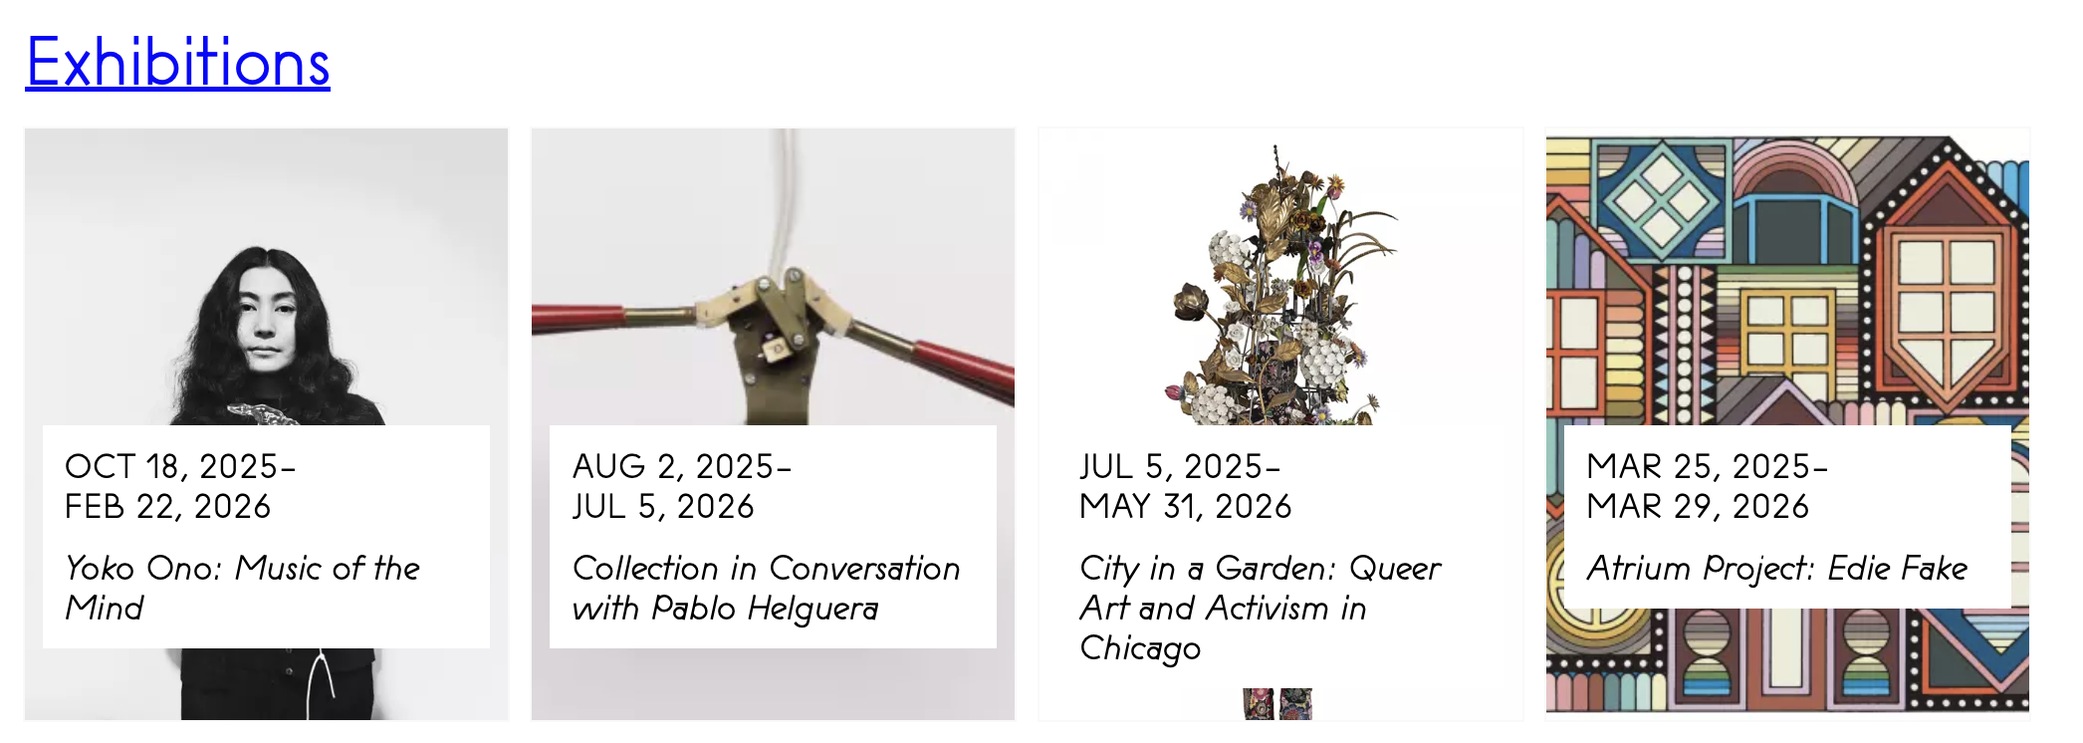
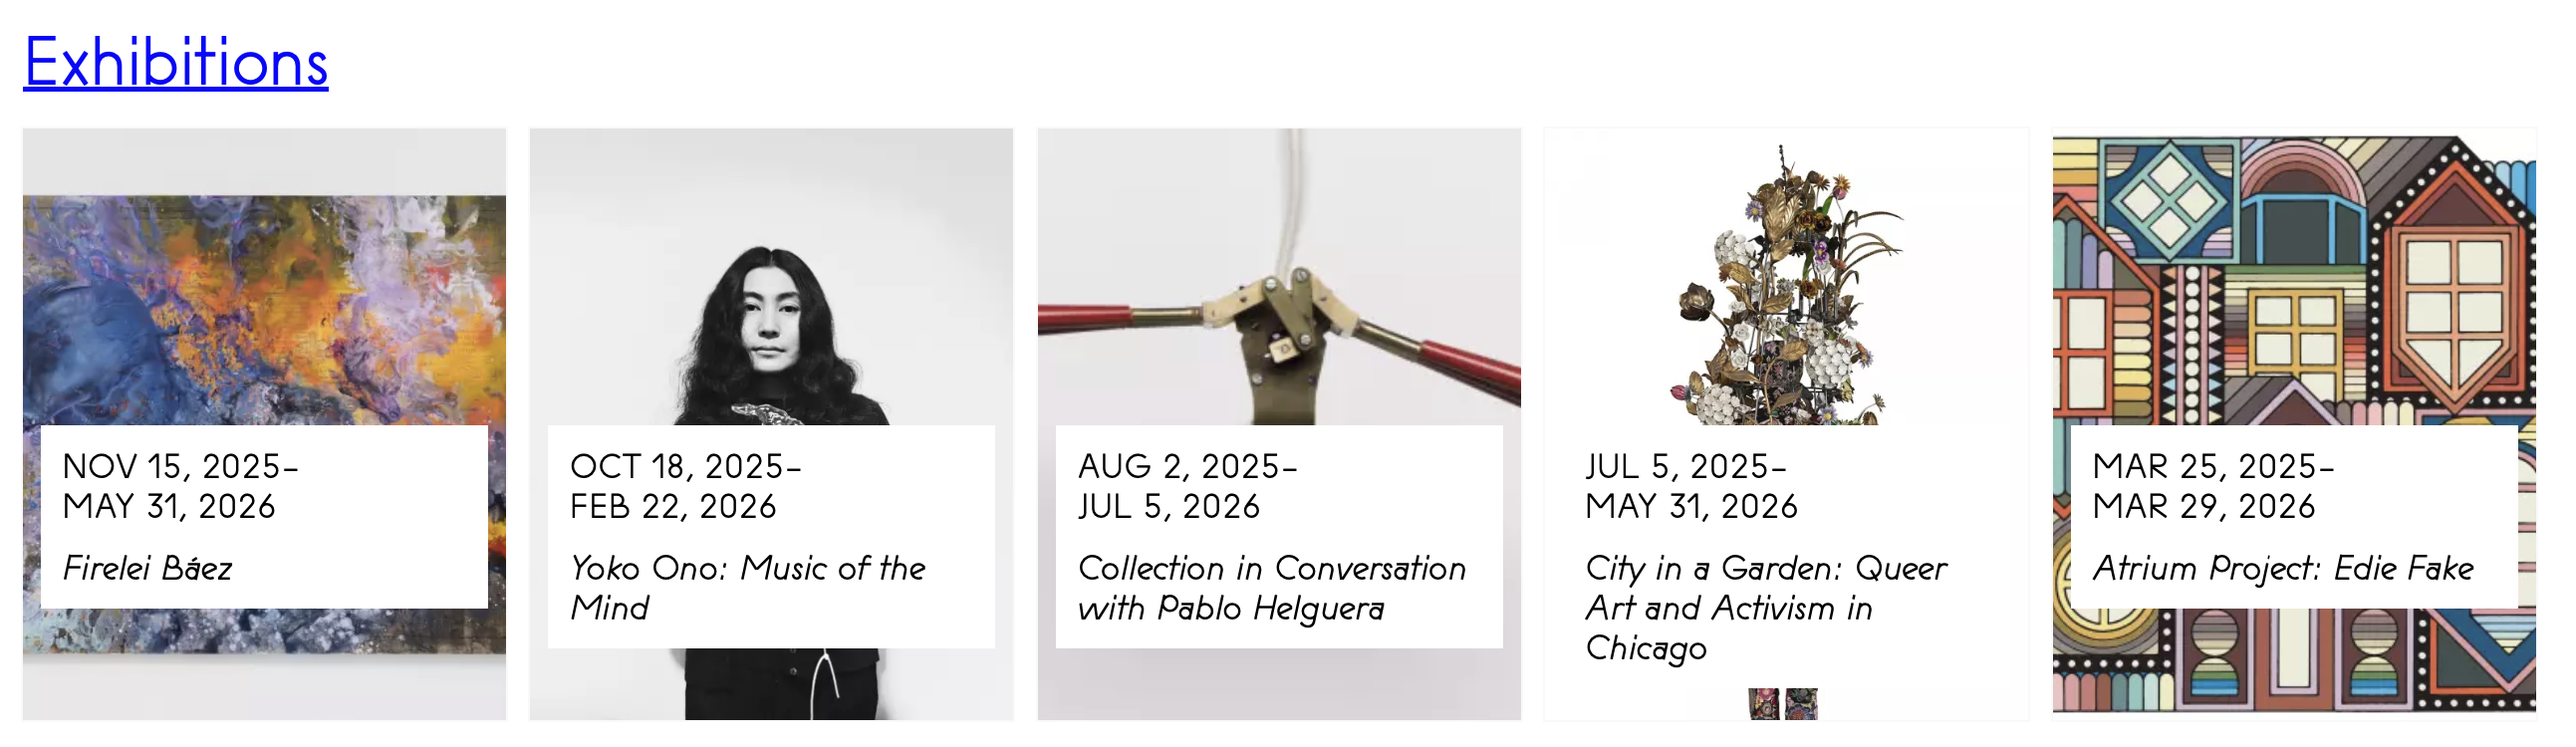
added Exhibitions

diff --git a/index.html b/index.html
@@ -76,6 +76,49 @@
     </article>
 
     <article class="component">
+    <h3 id="exhibitions">Exhibition Row</h3>
+    <img  src="img/Exhibitions.png">
+
+    <div class="exhibitions">
+        <div class="exhibit-card">
+            <img src="img/firelei.png">
+            <div class="caption">
+            <p class="dates">NOV 15, 2025-MAY 31,2026</p>
+            <p class="title"><em>Firelei Báez</em></p>
+        </div>
+        </div>
+        <div class="exhibit-card">
+            <img src="img/yoko2.png">
+            <div class="caption">
+            <p class="dates">OCT 18, 2025-FEB 22, 2026</p>
+            <p class="title"><em>Yoko Ono: Music of the Mind</em></p>
+        </div>
+        </div>
+        <div class="exhibit-card">
+            <img src="img/pablo.png">
+            <div class="caption">
+            <p class="dates">AUG 2, 2025-JUL 5,2026</p>
+            <p class="title"><em>Collection in Conversation with Pablo Helguera</em></p>
+        </div>
+        </div>
+        <div class="exhibit-card">
+            <img src="img/garden.png">
+            <div class="caption">
+            <p class="dates">JUL 5, 2025-MAY 31,2026</p>
+            <p class="title"><em>City in a Garden: Queer Art and Activism in Chicago</em></p>
+        </div>
+        </div>
+        <div class="exhibit-card">
+            <img src="img/atrium.png">
+            <div class="caption">
+            <p class="dates">MAR 25, 2025-MAR 29,2026</p>
+            <p class="title"><em>Atrium Project: Edie Fake</em></p>
+        </div>
+        </div>
+    </div>
+    </article>
+
+    <article class="component">
     <h3 id="navbar">Left Nav Bar</h3>
     <img class="nav-screenshot" src="img/LeftNav.png">
     <div class="navbar">
@@ -103,6 +146,13 @@
             </div>
         </ul>
     </div>
+    </article>
+
+    <article class="component">
+    <h3 id="footer">Footer</h3>
+    <img class="footer-screenshot" src="img/footer.png">
+
+
     </article>
 
 <footer>

diff --git a/style.css b/style.css
@@ -118,3 +118,44 @@ li a:hover {
   width: 170px;
   padding-top: 40px;
 }
+
+.exhibitions {
+  display: flex;
+  gap: 2rem;
+  flex-wrap: nowrap;
+  overflow-x: auto;
+  padding: 2rem 0;
+}
+.exhibit-card {
+  position: relative; 
+  width: 320px;
+  height: auto;
+  overflow: hidden;
+}
+
+.exhibit-card img {
+  width: 100%;
+  display: block;
+}
+
+.caption {
+  position: absolute;
+  bottom: 10%; 
+  left: 5%;
+  width: 90%;  
+  background: white;
+  padding: 5%;
+  box-sizing: border-box;
+}
+
+.caption .dates {
+  font-size: 1rem;
+  font-weight: 600;
+  margin: 0 0 .5rem 0;
+  letter-spacing: .1rem;
+}
+
+.caption .title {
+  margin: 0;
+  font-size: 1.15rem;
+}
